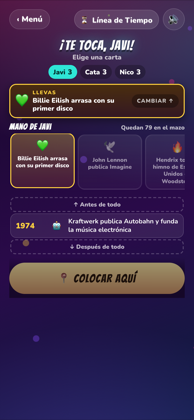
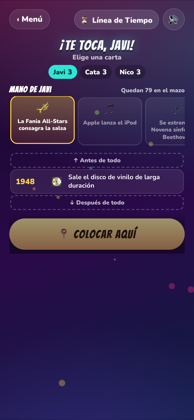
Línea de Tiempo: fuera la barra "Llevas"
Se agregó para no perder de vista la carta elegida al recorrer una línea
larga, pero queda pegada justo encima de la mano y muestra la misma carta
dos veces a dos centímetros de distancia. En un celular real se ve
redundante y parece un control más.

La carta elegida se sigue marcando en la mano (borde amarillo, el resto
atenuado) y se dibuja dentro de la ranura antes de confirmar. Si vuelve a
molestar en líneas largas, la salida no es reponer la barra sino mostrar el
recordatorio solo cuando la mano se sale de la pantalla (D-33).

diff --git a/index.html b/index.html
@@ -10,8 +10,8 @@
   <meta name="description" content="Juegos de salón para jugar con amigos: elige un juego, juega solo o con amigos y deja que el celular guíe la partida.">
   <link rel="manifest" href="manifest.webmanifest">
   <link rel="icon" href="assets/icon.svg" type="image/svg+xml">
-  <script type="importmap" id="importmap">{"imports": {"./assets/js/ui.js": "./assets/js/ui.js?v=0.13.0", "./assets/js/i18n.js": "./assets/js/i18n.js?v=0.13.0", "./assets/js/sound.js": "./assets/js/sound.js?v=0.13.0", "./assets/js/games.js": "./assets/js/games.js?v=0.13.0", "./assets/js/firebase-config.js": "./assets/js/firebase-config.js?v=0.13.0", "./assets/js/frases.js": "./assets/js/frases.js?v=0.13.0", "./cuarto-rey/game.js": "./cuarto-rey/game.js?v=0.13.0", "./cuarto-rey/rules.js": "./cuarto-rey/rules.js?v=0.13.0", "./toque-y-fama/game.js": "./toque-y-fama/game.js?v=0.13.0", "./toque-y-fama/rules.js": "./toque-y-fama/rules.js?v=0.13.0", "./toque-y-fama/engine.js": "./toque-y-fama/engine.js?v=0.13.0", "./assets/js/transport/local.js": "./assets/js/transport/local.js?v=0.13.0", "./assets/js/transport/firebase.js": "./assets/js/transport/firebase.js?v=0.13.0", "./assets/js/handoff.js": "./assets/js/handoff.js?v=0.13.0", "./assets/js/session.js": "./assets/js/session.js?v=0.13.0", "./assets/js/chat.js": "./assets/js/chat.js?v=0.13.0", "./batalla-naval/game.js": "./batalla-naval/game.js?v=0.13.0", "./batalla-naval/rules.js": "./batalla-naval/rules.js?v=0.13.0", "./batalla-naval/engine.js": "./batalla-naval/engine.js?v=0.13.0", "./linea-de-tiempo/game.js": "./linea-de-tiempo/game.js?v=0.13.0", "./linea-de-tiempo/rules.js": "./linea-de-tiempo/rules.js?v=0.13.0", "./linea-de-tiempo/engine.js": "./linea-de-tiempo/engine.js?v=0.13.0", "./linea-de-tiempo/decks/index.js": "./linea-de-tiempo/decks/index.js?v=0.13.0", "./linea-de-tiempo/decks/historia.js": "./linea-de-tiempo/decks/historia.js?v=0.13.0", "./linea-de-tiempo/decks/musica.js": "./linea-de-tiempo/decks/musica.js?v=0.13.0"}}</script>
-  <link rel="stylesheet" href="assets/css/base.css?v=0.13.0">
+  <script type="importmap" id="importmap">{"imports": {"./assets/js/ui.js": "./assets/js/ui.js?v=0.13.1", "./assets/js/i18n.js": "./assets/js/i18n.js?v=0.13.1", "./assets/js/sound.js": "./assets/js/sound.js?v=0.13.1", "./assets/js/games.js": "./assets/js/games.js?v=0.13.1", "./assets/js/firebase-config.js": "./assets/js/firebase-config.js?v=0.13.1", "./assets/js/frases.js": "./assets/js/frases.js?v=0.13.1", "./cuarto-rey/game.js": "./cuarto-rey/game.js?v=0.13.1", "./cuarto-rey/rules.js": "./cuarto-rey/rules.js?v=0.13.1", "./toque-y-fama/game.js": "./toque-y-fama/game.js?v=0.13.1", "./toque-y-fama/rules.js": "./toque-y-fama/rules.js?v=0.13.1", "./toque-y-fama/engine.js": "./toque-y-fama/engine.js?v=0.13.1", "./assets/js/transport/local.js": "./assets/js/transport/local.js?v=0.13.1", "./assets/js/transport/firebase.js": "./assets/js/transport/firebase.js?v=0.13.1", "./assets/js/handoff.js": "./assets/js/handoff.js?v=0.13.1", "./assets/js/session.js": "./assets/js/session.js?v=0.13.1", "./assets/js/chat.js": "./assets/js/chat.js?v=0.13.1", "./batalla-naval/game.js": "./batalla-naval/game.js?v=0.13.1", "./batalla-naval/rules.js": "./batalla-naval/rules.js?v=0.13.1", "./batalla-naval/engine.js": "./batalla-naval/engine.js?v=0.13.1", "./linea-de-tiempo/game.js": "./linea-de-tiempo/game.js?v=0.13.1", "./linea-de-tiempo/rules.js": "./linea-de-tiempo/rules.js?v=0.13.1", "./linea-de-tiempo/engine.js": "./linea-de-tiempo/engine.js?v=0.13.1", "./linea-de-tiempo/decks/index.js": "./linea-de-tiempo/decks/index.js?v=0.13.1", "./linea-de-tiempo/decks/historia.js": "./linea-de-tiempo/decks/historia.js?v=0.13.1", "./linea-de-tiempo/decks/musica.js": "./linea-de-tiempo/decks/musica.js?v=0.13.1"}}</script>
+  <link rel="stylesheet" href="assets/css/base.css?v=0.13.1">
   <style>
     .hero { text-align: center; padding: 28px 0 18px; }
     .hero .emoji { font-size: 3.2rem; display: block; margin-bottom: 6px; }
@@ -57,7 +57,7 @@
 
     <footer>
       <p class="footer-msg" id="footer-msg" aria-live="polite">Toma con responsabilidad y con agua a mano. Si manejas, no tomas. 🚕</p>
-      <p class="muted">v0.13.0 · <a href="https://github.com/ellokojavi/juegos-de-salon" style="color:inherit" data-i18n="code">código en GitHub</a></p>
+      <p class="muted">v0.13.1 · <a href="https://github.com/ellokojavi/juegos-de-salon" style="color:inherit" data-i18n="code">código en GitHub</a></p>
     </footer>
   </main>
 

diff --git a/linea-de-tiempo/index.html b/linea-de-tiempo/index.html
@@ -9,9 +9,9 @@
   <title>Línea de Tiempo ⏳ · Juegos de Salón</title>
   <link rel="manifest" href="../manifest.webmanifest">
   <link rel="icon" href="../assets/icon.svg" type="image/svg+xml">
-  <script type="importmap" id="importmap">{"imports": {"../assets/js/ui.js": "../assets/js/ui.js?v=0.13.0", "../assets/js/i18n.js": "../assets/js/i18n.js?v=0.13.0", "../assets/js/sound.js": "../assets/js/sound.js?v=0.13.0", "../assets/js/games.js": "../assets/js/games.js?v=0.13.0", "../assets/js/firebase-config.js": "../assets/js/firebase-config.js?v=0.13.0", "../assets/js/frases.js": "../assets/js/frases.js?v=0.13.0", "../cuarto-rey/game.js": "../cuarto-rey/game.js?v=0.13.0", "../cuarto-rey/rules.js": "../cuarto-rey/rules.js?v=0.13.0", "../toque-y-fama/game.js": "../toque-y-fama/game.js?v=0.13.0", "../toque-y-fama/rules.js": "../toque-y-fama/rules.js?v=0.13.0", "../toque-y-fama/engine.js": "../toque-y-fama/engine.js?v=0.13.0", "../assets/js/transport/local.js": "../assets/js/transport/local.js?v=0.13.0", "../assets/js/transport/firebase.js": "../assets/js/transport/firebase.js?v=0.13.0", "../assets/js/handoff.js": "../assets/js/handoff.js?v=0.13.0", "../assets/js/session.js": "../assets/js/session.js?v=0.13.0", "../assets/js/chat.js": "../assets/js/chat.js?v=0.13.0", "../batalla-naval/game.js": "../batalla-naval/game.js?v=0.13.0", "../batalla-naval/rules.js": "../batalla-naval/rules.js?v=0.13.0", "../batalla-naval/engine.js": "../batalla-naval/engine.js?v=0.13.0", "../linea-de-tiempo/game.js": "../linea-de-tiempo/game.js?v=0.13.0", "../linea-de-tiempo/rules.js": "../linea-de-tiempo/rules.js?v=0.13.0", "../linea-de-tiempo/engine.js": "../linea-de-tiempo/engine.js?v=0.13.0", "../linea-de-tiempo/decks/index.js": "../linea-de-tiempo/decks/index.js?v=0.13.0", "../linea-de-tiempo/decks/historia.js": "../linea-de-tiempo/decks/historia.js?v=0.13.0", "../linea-de-tiempo/decks/musica.js": "../linea-de-tiempo/decks/musica.js?v=0.13.0"}}</script>
-  <link rel="stylesheet" href="../assets/css/base.css?v=0.13.0">
-  <link rel="stylesheet" href="style.css?v=0.13.0">
+  <script type="importmap" id="importmap">{"imports": {"../assets/js/ui.js": "../assets/js/ui.js?v=0.13.1", "../assets/js/i18n.js": "../assets/js/i18n.js?v=0.13.1", "../assets/js/sound.js": "../assets/js/sound.js?v=0.13.1", "../assets/js/games.js": "../assets/js/games.js?v=0.13.1", "../assets/js/firebase-config.js": "../assets/js/firebase-config.js?v=0.13.1", "../assets/js/frases.js": "../assets/js/frases.js?v=0.13.1", "../cuarto-rey/game.js": "../cuarto-rey/game.js?v=0.13.1", "../cuarto-rey/rules.js": "../cuarto-rey/rules.js?v=0.13.1", "../toque-y-fama/game.js": "../toque-y-fama/game.js?v=0.13.1", "../toque-y-fama/rules.js": "../toque-y-fama/rules.js?v=0.13.1", "../toque-y-fama/engine.js": "../toque-y-fama/engine.js?v=0.13.1", "../assets/js/transport/local.js": "../assets/js/transport/local.js?v=0.13.1", "../assets/js/transport/firebase.js": "../assets/js/transport/firebase.js?v=0.13.1", "../assets/js/handoff.js": "../assets/js/handoff.js?v=0.13.1", "../assets/js/session.js": "../assets/js/session.js?v=0.13.1", "../assets/js/chat.js": "../assets/js/chat.js?v=0.13.1", "../batalla-naval/game.js": "../batalla-naval/game.js?v=0.13.1", "../batalla-naval/rules.js": "../batalla-naval/rules.js?v=0.13.1", "../batalla-naval/engine.js": "../batalla-naval/engine.js?v=0.13.1", "../linea-de-tiempo/game.js": "../linea-de-tiempo/game.js?v=0.13.1", "../linea-de-tiempo/rules.js": "../linea-de-tiempo/rules.js?v=0.13.1", "../linea-de-tiempo/engine.js": "../linea-de-tiempo/engine.js?v=0.13.1", "../linea-de-tiempo/decks/index.js": "../linea-de-tiempo/decks/index.js?v=0.13.1", "../linea-de-tiempo/decks/historia.js": "../linea-de-tiempo/decks/historia.js?v=0.13.1", "../linea-de-tiempo/decks/musica.js": "../linea-de-tiempo/decks/musica.js?v=0.13.1"}}</script>
+  <link rel="stylesheet" href="../assets/css/base.css?v=0.13.1">
+  <link rel="stylesheet" href="style.css?v=0.13.1">
 </head>
 <body>
   <main class="app" id="app">
@@ -52,7 +52,6 @@
     <section class="screen" id="screen-play">
       <div class="status"><div class="who" id="status-who"></div><div class="sub" id="status-sub"></div></div>
       <div class="score" id="score"></div>
-      <div class="carry" id="carry" hidden></div>
       <div class="hand-title"><b id="hand-title"></b><small id="pool-left"></small></div>
       <div class="hand" id="hand"></div>
       <div class="line-wrap" id="line-wrap"><div class="line" id="line"></div></div>

diff --git a/batalla-naval/index.html b/batalla-naval/index.html
@@ -9,9 +9,9 @@
   <title>Batalla Naval ⚓ · Juegos de Salón</title>
   <link rel="manifest" href="../manifest.webmanifest">
   <link rel="icon" href="../assets/icon.svg" type="image/svg+xml">
-  <script type="importmap" id="importmap">{"imports": {"../assets/js/ui.js": "../assets/js/ui.js?v=0.13.0", "../assets/js/i18n.js": "../assets/js/i18n.js?v=0.13.0", "../assets/js/sound.js": "../assets/js/sound.js?v=0.13.0", "../assets/js/games.js": "../assets/js/games.js?v=0.13.0", "../assets/js/firebase-config.js": "../assets/js/firebase-config.js?v=0.13.0", "../assets/js/frases.js": "../assets/js/frases.js?v=0.13.0", "../cuarto-rey/game.js": "../cuarto-rey/game.js?v=0.13.0", "../cuarto-rey/rules.js": "../cuarto-rey/rules.js?v=0.13.0", "../toque-y-fama/game.js": "../toque-y-fama/game.js?v=0.13.0", "../toque-y-fama/rules.js": "../toque-y-fama/rules.js?v=0.13.0", "../toque-y-fama/engine.js": "../toque-y-fama/engine.js?v=0.13.0", "../assets/js/transport/local.js": "../assets/js/transport/local.js?v=0.13.0", "../assets/js/transport/firebase.js": "../assets/js/transport/firebase.js?v=0.13.0", "../assets/js/handoff.js": "../assets/js/handoff.js?v=0.13.0", "../assets/js/session.js": "../assets/js/session.js?v=0.13.0", "../assets/js/chat.js": "../assets/js/chat.js?v=0.13.0", "../batalla-naval/game.js": "../batalla-naval/game.js?v=0.13.0", "../batalla-naval/rules.js": "../batalla-naval/rules.js?v=0.13.0", "../batalla-naval/engine.js": "../batalla-naval/engine.js?v=0.13.0", "../linea-de-tiempo/game.js": "../linea-de-tiempo/game.js?v=0.13.0", "../linea-de-tiempo/rules.js": "../linea-de-tiempo/rules.js?v=0.13.0", "../linea-de-tiempo/engine.js": "../linea-de-tiempo/engine.js?v=0.13.0", "../linea-de-tiempo/decks/index.js": "../linea-de-tiempo/decks/index.js?v=0.13.0", "../linea-de-tiempo/decks/historia.js": "../linea-de-tiempo/decks/historia.js?v=0.13.0", "../linea-de-tiempo/decks/musica.js": "../linea-de-tiempo/decks/musica.js?v=0.13.0"}}</script>
-  <link rel="stylesheet" href="../assets/css/base.css?v=0.13.0">
-  <link rel="stylesheet" href="style.css?v=0.13.0">
+  <script type="importmap" id="importmap">{"imports": {"../assets/js/ui.js": "../assets/js/ui.js?v=0.13.1", "../assets/js/i18n.js": "../assets/js/i18n.js?v=0.13.1", "../assets/js/sound.js": "../assets/js/sound.js?v=0.13.1", "../assets/js/games.js": "../assets/js/games.js?v=0.13.1", "../assets/js/firebase-config.js": "../assets/js/firebase-config.js?v=0.13.1", "../assets/js/frases.js": "../assets/js/frases.js?v=0.13.1", "../cuarto-rey/game.js": "../cuarto-rey/game.js?v=0.13.1", "../cuarto-rey/rules.js": "../cuarto-rey/rules.js?v=0.13.1", "../toque-y-fama/game.js": "../toque-y-fama/game.js?v=0.13.1", "../toque-y-fama/rules.js": "../toque-y-fama/rules.js?v=0.13.1", "../toque-y-fama/engine.js": "../toque-y-fama/engine.js?v=0.13.1", "../assets/js/transport/local.js": "../assets/js/transport/local.js?v=0.13.1", "../assets/js/transport/firebase.js": "../assets/js/transport/firebase.js?v=0.13.1", "../assets/js/handoff.js": "../assets/js/handoff.js?v=0.13.1", "../assets/js/session.js": "../assets/js/session.js?v=0.13.1", "../assets/js/chat.js": "../assets/js/chat.js?v=0.13.1", "../batalla-naval/game.js": "../batalla-naval/game.js?v=0.13.1", "../batalla-naval/rules.js": "../batalla-naval/rules.js?v=0.13.1", "../batalla-naval/engine.js": "../batalla-naval/engine.js?v=0.13.1", "../linea-de-tiempo/game.js": "../linea-de-tiempo/game.js?v=0.13.1", "../linea-de-tiempo/rules.js": "../linea-de-tiempo/rules.js?v=0.13.1", "../linea-de-tiempo/engine.js": "../linea-de-tiempo/engine.js?v=0.13.1", "../linea-de-tiempo/decks/index.js": "../linea-de-tiempo/decks/index.js?v=0.13.1", "../linea-de-tiempo/decks/historia.js": "../linea-de-tiempo/decks/historia.js?v=0.13.1", "../linea-de-tiempo/decks/musica.js": "../linea-de-tiempo/decks/musica.js?v=0.13.1"}}</script>
+  <link rel="stylesheet" href="../assets/css/base.css?v=0.13.1">
+  <link rel="stylesheet" href="style.css?v=0.13.1">
 </head>
 <body>
   <main class="app" id="app">

diff --git a/toque-y-fama/index.html b/toque-y-fama/index.html
@@ -9,9 +9,9 @@
   <title>Toque y Fama 🔢 · Juegos de Salón</title>
   <link rel="manifest" href="../manifest.webmanifest">
   <link rel="icon" href="../assets/icon.svg" type="image/svg+xml">
-  <script type="importmap" id="importmap">{"imports": {"../assets/js/ui.js": "../assets/js/ui.js?v=0.13.0", "../assets/js/i18n.js": "../assets/js/i18n.js?v=0.13.0", "../assets/js/sound.js": "../assets/js/sound.js?v=0.13.0", "../assets/js/games.js": "../assets/js/games.js?v=0.13.0", "../assets/js/firebase-config.js": "../assets/js/firebase-config.js?v=0.13.0", "../assets/js/frases.js": "../assets/js/frases.js?v=0.13.0", "../cuarto-rey/game.js": "../cuarto-rey/game.js?v=0.13.0", "../cuarto-rey/rules.js": "../cuarto-rey/rules.js?v=0.13.0", "../toque-y-fama/game.js": "../toque-y-fama/game.js?v=0.13.0", "../toque-y-fama/rules.js": "../toque-y-fama/rules.js?v=0.13.0", "../toque-y-fama/engine.js": "../toque-y-fama/engine.js?v=0.13.0", "../assets/js/transport/local.js": "../assets/js/transport/local.js?v=0.13.0", "../assets/js/transport/firebase.js": "../assets/js/transport/firebase.js?v=0.13.0", "../assets/js/handoff.js": "../assets/js/handoff.js?v=0.13.0", "../assets/js/session.js": "../assets/js/session.js?v=0.13.0", "../assets/js/chat.js": "../assets/js/chat.js?v=0.13.0", "../batalla-naval/game.js": "../batalla-naval/game.js?v=0.13.0", "../batalla-naval/rules.js": "../batalla-naval/rules.js?v=0.13.0", "../batalla-naval/engine.js": "../batalla-naval/engine.js?v=0.13.0", "../linea-de-tiempo/game.js": "../linea-de-tiempo/game.js?v=0.13.0", "../linea-de-tiempo/rules.js": "../linea-de-tiempo/rules.js?v=0.13.0", "../linea-de-tiempo/engine.js": "../linea-de-tiempo/engine.js?v=0.13.0", "../linea-de-tiempo/decks/index.js": "../linea-de-tiempo/decks/index.js?v=0.13.0", "../linea-de-tiempo/decks/historia.js": "../linea-de-tiempo/decks/historia.js?v=0.13.0", "../linea-de-tiempo/decks/musica.js": "../linea-de-tiempo/decks/musica.js?v=0.13.0"}}</script>
-  <link rel="stylesheet" href="../assets/css/base.css?v=0.13.0">
-  <link rel="stylesheet" href="style.css?v=0.13.0">
+  <script type="importmap" id="importmap">{"imports": {"../assets/js/ui.js": "../assets/js/ui.js?v=0.13.1", "../assets/js/i18n.js": "../assets/js/i18n.js?v=0.13.1", "../assets/js/sound.js": "../assets/js/sound.js?v=0.13.1", "../assets/js/games.js": "../assets/js/games.js?v=0.13.1", "../assets/js/firebase-config.js": "../assets/js/firebase-config.js?v=0.13.1", "../assets/js/frases.js": "../assets/js/frases.js?v=0.13.1", "../cuarto-rey/game.js": "../cuarto-rey/game.js?v=0.13.1", "../cuarto-rey/rules.js": "../cuarto-rey/rules.js?v=0.13.1", "../toque-y-fama/game.js": "../toque-y-fama/game.js?v=0.13.1", "../toque-y-fama/rules.js": "../toque-y-fama/rules.js?v=0.13.1", "../toque-y-fama/engine.js": "../toque-y-fama/engine.js?v=0.13.1", "../assets/js/transport/local.js": "../assets/js/transport/local.js?v=0.13.1", "../assets/js/transport/firebase.js": "../assets/js/transport/firebase.js?v=0.13.1", "../assets/js/handoff.js": "../assets/js/handoff.js?v=0.13.1", "../assets/js/session.js": "../assets/js/session.js?v=0.13.1", "../assets/js/chat.js": "../assets/js/chat.js?v=0.13.1", "../batalla-naval/game.js": "../batalla-naval/game.js?v=0.13.1", "../batalla-naval/rules.js": "../batalla-naval/rules.js?v=0.13.1", "../batalla-naval/engine.js": "../batalla-naval/engine.js?v=0.13.1", "../linea-de-tiempo/game.js": "../linea-de-tiempo/game.js?v=0.13.1", "../linea-de-tiempo/rules.js": "../linea-de-tiempo/rules.js?v=0.13.1", "../linea-de-tiempo/engine.js": "../linea-de-tiempo/engine.js?v=0.13.1", "../linea-de-tiempo/decks/index.js": "../linea-de-tiempo/decks/index.js?v=0.13.1", "../linea-de-tiempo/decks/historia.js": "../linea-de-tiempo/decks/historia.js?v=0.13.1", "../linea-de-tiempo/decks/musica.js": "../linea-de-tiempo/decks/musica.js?v=0.13.1"}}</script>
+  <link rel="stylesheet" href="../assets/css/base.css?v=0.13.1">
+  <link rel="stylesheet" href="style.css?v=0.13.1">
 </head>
 <body>
   <main class="app" id="app">

diff --git a/cuarto-rey/index.html b/cuarto-rey/index.html
@@ -9,9 +9,9 @@
   <title>Cuarto Rey 👑 · Juegos de Salón</title>
   <link rel="manifest" href="../manifest.webmanifest">
   <link rel="icon" href="../assets/icon.svg" type="image/svg+xml">
-  <script type="importmap" id="importmap">{"imports": {"../assets/js/ui.js": "../assets/js/ui.js?v=0.13.0", "../assets/js/i18n.js": "../assets/js/i18n.js?v=0.13.0", "../assets/js/sound.js": "../assets/js/sound.js?v=0.13.0", "../assets/js/games.js": "../assets/js/games.js?v=0.13.0", "../assets/js/firebase-config.js": "../assets/js/firebase-config.js?v=0.13.0", "../assets/js/frases.js": "../assets/js/frases.js?v=0.13.0", "../cuarto-rey/game.js": "../cuarto-rey/game.js?v=0.13.0", "../cuarto-rey/rules.js": "../cuarto-rey/rules.js?v=0.13.0", "../toque-y-fama/game.js": "../toque-y-fama/game.js?v=0.13.0", "../toque-y-fama/rules.js": "../toque-y-fama/rules.js?v=0.13.0", "../toque-y-fama/engine.js": "../toque-y-fama/engine.js?v=0.13.0", "../assets/js/transport/local.js": "../assets/js/transport/local.js?v=0.13.0", "../assets/js/transport/firebase.js": "../assets/js/transport/firebase.js?v=0.13.0", "../assets/js/handoff.js": "../assets/js/handoff.js?v=0.13.0", "../assets/js/session.js": "../assets/js/session.js?v=0.13.0", "../assets/js/chat.js": "../assets/js/chat.js?v=0.13.0", "../batalla-naval/game.js": "../batalla-naval/game.js?v=0.13.0", "../batalla-naval/rules.js": "../batalla-naval/rules.js?v=0.13.0", "../batalla-naval/engine.js": "../batalla-naval/engine.js?v=0.13.0", "../linea-de-tiempo/game.js": "../linea-de-tiempo/game.js?v=0.13.0", "../linea-de-tiempo/rules.js": "../linea-de-tiempo/rules.js?v=0.13.0", "../linea-de-tiempo/engine.js": "../linea-de-tiempo/engine.js?v=0.13.0", "../linea-de-tiempo/decks/index.js": "../linea-de-tiempo/decks/index.js?v=0.13.0", "../linea-de-tiempo/decks/historia.js": "../linea-de-tiempo/decks/historia.js?v=0.13.0", "../linea-de-tiempo/decks/musica.js": "../linea-de-tiempo/decks/musica.js?v=0.13.0"}}</script>
-  <link rel="stylesheet" href="../assets/css/base.css?v=0.13.0">
-  <link rel="stylesheet" href="style.css?v=0.13.0">
+  <script type="importmap" id="importmap">{"imports": {"../assets/js/ui.js": "../assets/js/ui.js?v=0.13.1", "../assets/js/i18n.js": "../assets/js/i18n.js?v=0.13.1", "../assets/js/sound.js": "../assets/js/sound.js?v=0.13.1", "../assets/js/games.js": "../assets/js/games.js?v=0.13.1", "../assets/js/firebase-config.js": "../assets/js/firebase-config.js?v=0.13.1", "../assets/js/frases.js": "../assets/js/frases.js?v=0.13.1", "../cuarto-rey/game.js": "../cuarto-rey/game.js?v=0.13.1", "../cuarto-rey/rules.js": "../cuarto-rey/rules.js?v=0.13.1", "../toque-y-fama/game.js": "../toque-y-fama/game.js?v=0.13.1", "../toque-y-fama/rules.js": "../toque-y-fama/rules.js?v=0.13.1", "../toque-y-fama/engine.js": "../toque-y-fama/engine.js?v=0.13.1", "../assets/js/transport/local.js": "../assets/js/transport/local.js?v=0.13.1", "../assets/js/transport/firebase.js": "../assets/js/transport/firebase.js?v=0.13.1", "../assets/js/handoff.js": "../assets/js/handoff.js?v=0.13.1", "../assets/js/session.js": "../assets/js/session.js?v=0.13.1", "../assets/js/chat.js": "../assets/js/chat.js?v=0.13.1", "../batalla-naval/game.js": "../batalla-naval/game.js?v=0.13.1", "../batalla-naval/rules.js": "../batalla-naval/rules.js?v=0.13.1", "../batalla-naval/engine.js": "../batalla-naval/engine.js?v=0.13.1", "../linea-de-tiempo/game.js": "../linea-de-tiempo/game.js?v=0.13.1", "../linea-de-tiempo/rules.js": "../linea-de-tiempo/rules.js?v=0.13.1", "../linea-de-tiempo/engine.js": "../linea-de-tiempo/engine.js?v=0.13.1", "../linea-de-tiempo/decks/index.js": "../linea-de-tiempo/decks/index.js?v=0.13.1", "../linea-de-tiempo/decks/historia.js": "../linea-de-tiempo/decks/historia.js?v=0.13.1", "../linea-de-tiempo/decks/musica.js": "../linea-de-tiempo/decks/musica.js?v=0.13.1"}}</script>
+  <link rel="stylesheet" href="../assets/css/base.css?v=0.13.1">
+  <link rel="stylesheet" href="style.css?v=0.13.1">
 </head>
 <body>
   <main class="app" id="app">

diff --git a/linea-de-tiempo/rules.js b/linea-de-tiempo/rules.js
@@ -35,7 +35,7 @@ const ES = {
   offline: '{name} se desconectó', waitingTurn: 'Esperando a {name}…', placedBy: '{name} colocó',
   // juego
   turnYou: '¡Te toca, {name}!', turnOther: 'Turno de {name}', soloTitle: 'Vacía tu mano', soloStatus: '{ok} aciertos en {n} {tries}', soloRecord: 'Récord: {n} {tries}', tryOne: 'intento', tryMany: 'intentos',
-  carrying: 'Llevas', changeCard: 'Cambiar', yourHand: 'Tu mano', handOf: 'Mano de {name}', pickCard: 'Elige una carta', pickSlot: '¿Dónde va?', place: '📍 Colocar aquí',
+  yourHand: 'Tu mano', handOf: 'Mano de {name}', pickCard: 'Elige una carta', pickSlot: '¿Dónde va?', place: '📍 Colocar aquí',
   timeline: 'Línea de tiempo', cardsLeft: '{n}', poolLeft: 'Quedan {n} en el mazo',
   slotFirst: '↑ Antes de todo', slotLast: '↓ Después de todo', slotBetween: 'Aquí',
   correct: '¡Correcto!', wrong: '¡Te equivocaste!', wasYear: 'Era {year}', goesHere: 'Iba aquí ↓', drewNew: 'La carta se descarta y robas una nueva.',
@@ -77,7 +77,7 @@ const EN = {
   lobbyPlayers: 'In the room', lobbyWaitHost: 'Waiting for {name} to start…', lobbyStart: '🚀 Start!', lobbyNeedMore: 'Need more players',
   offline: '{name} disconnected', waitingTurn: 'Waiting for {name}…', placedBy: '{name} placed',
   turnYou: 'Your turn, {name}!', turnOther: '{name}\'s turn', soloTitle: 'Empty your hand', soloStatus: '{ok} correct in {n} {tries}', soloRecord: 'Record: {n} {tries}', tryOne: 'try', tryMany: 'tries',
-  carrying: 'Carrying', changeCard: 'Change', yourHand: 'Your hand', handOf: '{name}\'s hand', pickCard: 'Pick a card', pickSlot: 'Where does it go?', place: '📍 Place it here',
+  yourHand: 'Your hand', handOf: '{name}\'s hand', pickCard: 'Pick a card', pickSlot: 'Where does it go?', place: '📍 Place it here',
   timeline: 'Timeline', cardsLeft: '{n}', poolLeft: '{n} left in the deck',
   slotFirst: '↑ Before everything', slotLast: '↓ After everything', slotBetween: 'Here',
   correct: 'Correct!', wrong: 'Wrong!', wasYear: 'It was {year}', goesHere: 'It goes here ↓', drewNew: 'The card is discarded and you draw a new one.',

diff --git a/linea-de-tiempo/style.css b/linea-de-tiempo/style.css
@@ -46,24 +46,6 @@
 .score .p.turn { background: var(--cyan); color: #03302c; }
 .score .p .n { font: 900 0.9rem var(--font-num); font-variant-numeric: tabular-nums; }
 
-/* Carta que el jugador lleva en la mano mientras recorre la línea (queda fija arriba) */
-.carry {
-  position: sticky; top: 0; z-index: 6; display: grid; grid-template-columns: auto 1fr auto; align-items: center; gap: 8px;
-  padding: 8px 10px; margin: 2px 0 4px; border-radius: 14px;
-  /* Opaca: la línea pasa por debajo al desplazar y el texto no debe transparentarse */
-  background: linear-gradient(180deg, rgba(74, 45, 14, 0.985), rgba(52, 24, 34, 0.985));
-  border: 2px solid var(--yellow); box-shadow: 0 6px 18px rgba(0, 0, 0, 0.45);
-  backdrop-filter: blur(8px); -webkit-backdrop-filter: blur(8px);
-  animation: pop 0.3s cubic-bezier(0.2, 0.9, 0.3, 1.4) both;
-}
-.carry .em { font-size: 1.7rem; }
-.carry .txt { display: grid; gap: 1px; min-width: 0; }
-.carry .lbl { font-size: 0.65rem; font-weight: 900; letter-spacing: 0.12em; text-transform: uppercase; color: var(--yellow); }
-.carry .t { font-size: 0.85rem; font-weight: 800; line-height: 1.2; }
-.carry { cursor: pointer; }
-.carry:active { transform: scale(0.99); }
-.carry .change { font-size: 0.7rem; font-weight: 900; text-transform: uppercase; letter-spacing: 0.08em; color: var(--muted); background: rgba(0,0,0,0.3); padding: 6px 10px; border-radius: 999px; white-space: nowrap; }
-
 /* Mano */
 .hand-title { display: flex; justify-content: space-between; align-items: baseline; margin: 4px 0; }
 .hand-title b { font-family: var(--font-display); font-size: 1.05rem; letter-spacing: 0.05em; }

diff --git a/linea-de-tiempo/game.js b/linea-de-tiempo/game.js
@@ -279,20 +279,8 @@ function renderPlay(v) {
       el('span', { class: 'em' }, c.emoji), el('span', { class: 't' }, c[lang])));
   }
 
-  // Carta que se lleva: queda fija arriba mientras se recorre la línea
-  const carry = $('#carry');
-  if (isLocalTurn && S.selCard) {
-    const c = v.byId[S.selCard];
-    // Tocar la barra devuelve a la mano para cambiar de carta sin buscarla desplazando
-    carry.hidden = false; carry.innerHTML = '';
-    carry.append(
-      el('span', { class: 'em' }, c.emoji),
-      el('span', { class: 'txt' }, el('span', { class: 'lbl' }, T.carrying), el('span', { class: 't' }, c[lang])),
-      el('span', { class: 'change' }, T.changeCard, ' ↑'),
-    );
-    carry.onclick = () => { SFX.tap(); $('#hand').scrollIntoView({ block: 'center', behavior: 'smooth' }); };
-    handBox.classList.add('dim');
-  } else { carry.hidden = true; carry.innerHTML = ''; handBox.classList.remove('dim'); }
+  // La carta elegida se marca en la propia mano; no hay barra aparte (D-33)
+  handBox.classList.toggle('dim', !!(isLocalTurn && S.selCard));
 
   // Línea de tiempo con ranuras
   const line = $('#line'); line.innerHTML = '';

diff --git a/docs/DECISIONES.md b/docs/DECISIONES.md
@@ -163,3 +163,9 @@ Registro tipo ADR (Architecture Decision Record). Las decisiones se numeran y no
 **Por qué:** Con mano propia cada uno juega su suerte: te puede tocar una mano fácil o una imposible, y nadie más ve lo que tienes. Con el pozo común todos miran las mismas cartas, así que el mérito es de quien elige mejor, y se puede comentar la jugada del otro (que es justo lo que hace el chat).
 **Cómo:** El motor recibe `shared` y `visible`; la tira se deriva igual que todo lo demás, de la semilla más la lista de jugadas, así que los dispositivos llegan a la misma tira sin mensajes extra (canon C-7). Una carta fallada **no** vuelve a la tira: el veredicto acaba de mostrar su año a todo el mundo, así que dejarla sería regalarle el punto al siguiente. El ajuste viaja en la `config` de la sala, de modo que el que se une juega con lo que eligió el anfitrión.
 **Consecuencias:** El final por meta se combina con lo de D-31: la ronda se juega completa y, si más de uno llega a la meta, gana el más rápido. Si el mazo se acaba, gana quien colocó más. El récord del solitario se guarda aparte (`tema:cartas:pozo`), porque son dos juegos distintos. El marcador muestra `colocadas/meta` en vez de las cartas que quedan.
+
+## D-33 · Fuera la barra de "Llevas"
+**Fecha:** 2026-09-10 · **Estado:** vigente
+**Decisión:** Se elimina la barra fija que repetía, sobre la línea, la carta que el jugador tenía elegida ("Llevas … Cambiar ↑"). La carta elegida se sigue marcando en la mano (borde amarillo, el resto atenuado) y se dibuja dentro de la ranura elegida antes de confirmar.
+**Por qué:** Se agregó para que no se perdiera de vista la carta al recorrer una línea larga, pero en la práctica queda pegada justo encima de la mano, mostrando la misma carta dos veces a dos centímetros de distancia. Probándolo en un celular real se ve redundante y confunde: parece un control más, no un recordatorio.
+**Consecuencias:** Con una línea muy larga y sin ranura elegida todavía, el jugador ya no tiene el recordatorio a la vista. Si vuelve a molestar, la salida no es reponer la barra sino mostrarla **solo** cuando la mano se sale de la pantalla.

diff --git a/docs/juegos/linea-de-tiempo.md b/docs/juegos/linea-de-tiempo.md
@@ -100,7 +100,7 @@ falta mensajes de respuesta.
   un celular. Cada hito es una fila con año, emoji y título. Entre filas hay **ranuras tocables**;
   también hay ranura antes de la primera y después de la última.
 - Arriba, la **carta en juego** grande, con emoji y título, sin año.
-- La carta elegida queda **fija en una barra sobre la línea** mientras se busca la ranura, con la mano atenuada detrás; tocar la barra vuelve a la mano. Se toca una ranura y luego **📍 Colocar aquí** para confirmar (C-8), botón que flota abajo.
+- La carta elegida se marca en la propia mano (borde amarillo, el resto atenuado) y aparece dibujada dentro de la ranura elegida antes de confirmar. Se toca una ranura y luego **📍 Colocar aquí** (C-8), botón que flota abajo. Hubo una barra aparte que repetía la carta elegida sobre la línea; se quitó por redundante (D-33).
 - Al confirmar, la carta se revela con su año. Un **acierto** se muestra un par de segundos y se cierra solo.
   Un **error** tiñe la pantalla de rojo, sacude la carta, suena distinto y explica entre qué hitos iba y entre
   cuáles se puso; se queda hasta que el jugador toca. Mientras tanto, el celular no juega y las jugadas de

diff --git a/CHANGELOG.md b/CHANGELOG.md
@@ -1,5 +1,8 @@
 # Changelog
 
+## 0.13.1 — 2026-09-10
+- Línea de Tiempo: se quita la barra "Llevas …" que repetía la carta elegida justo encima de la mano. Mostraba lo mismo dos veces y parecía un control más (D-33).
+
 ## 0.13.0 — 2026-09-10
 - Línea de Tiempo: nueva opción **pozo común** en la configuración. En vez de una mano privada por jugador, hay una sola tira de **6 cartas a la vista de todos**; cuando una sale, entra otra por el final. Gana quien coloque primero las cartas acordadas (D-32).
 - El ajuste lo elige quien arma la partida y viaja en la sala: el que se une juega con lo que eligió el anfitrión.
